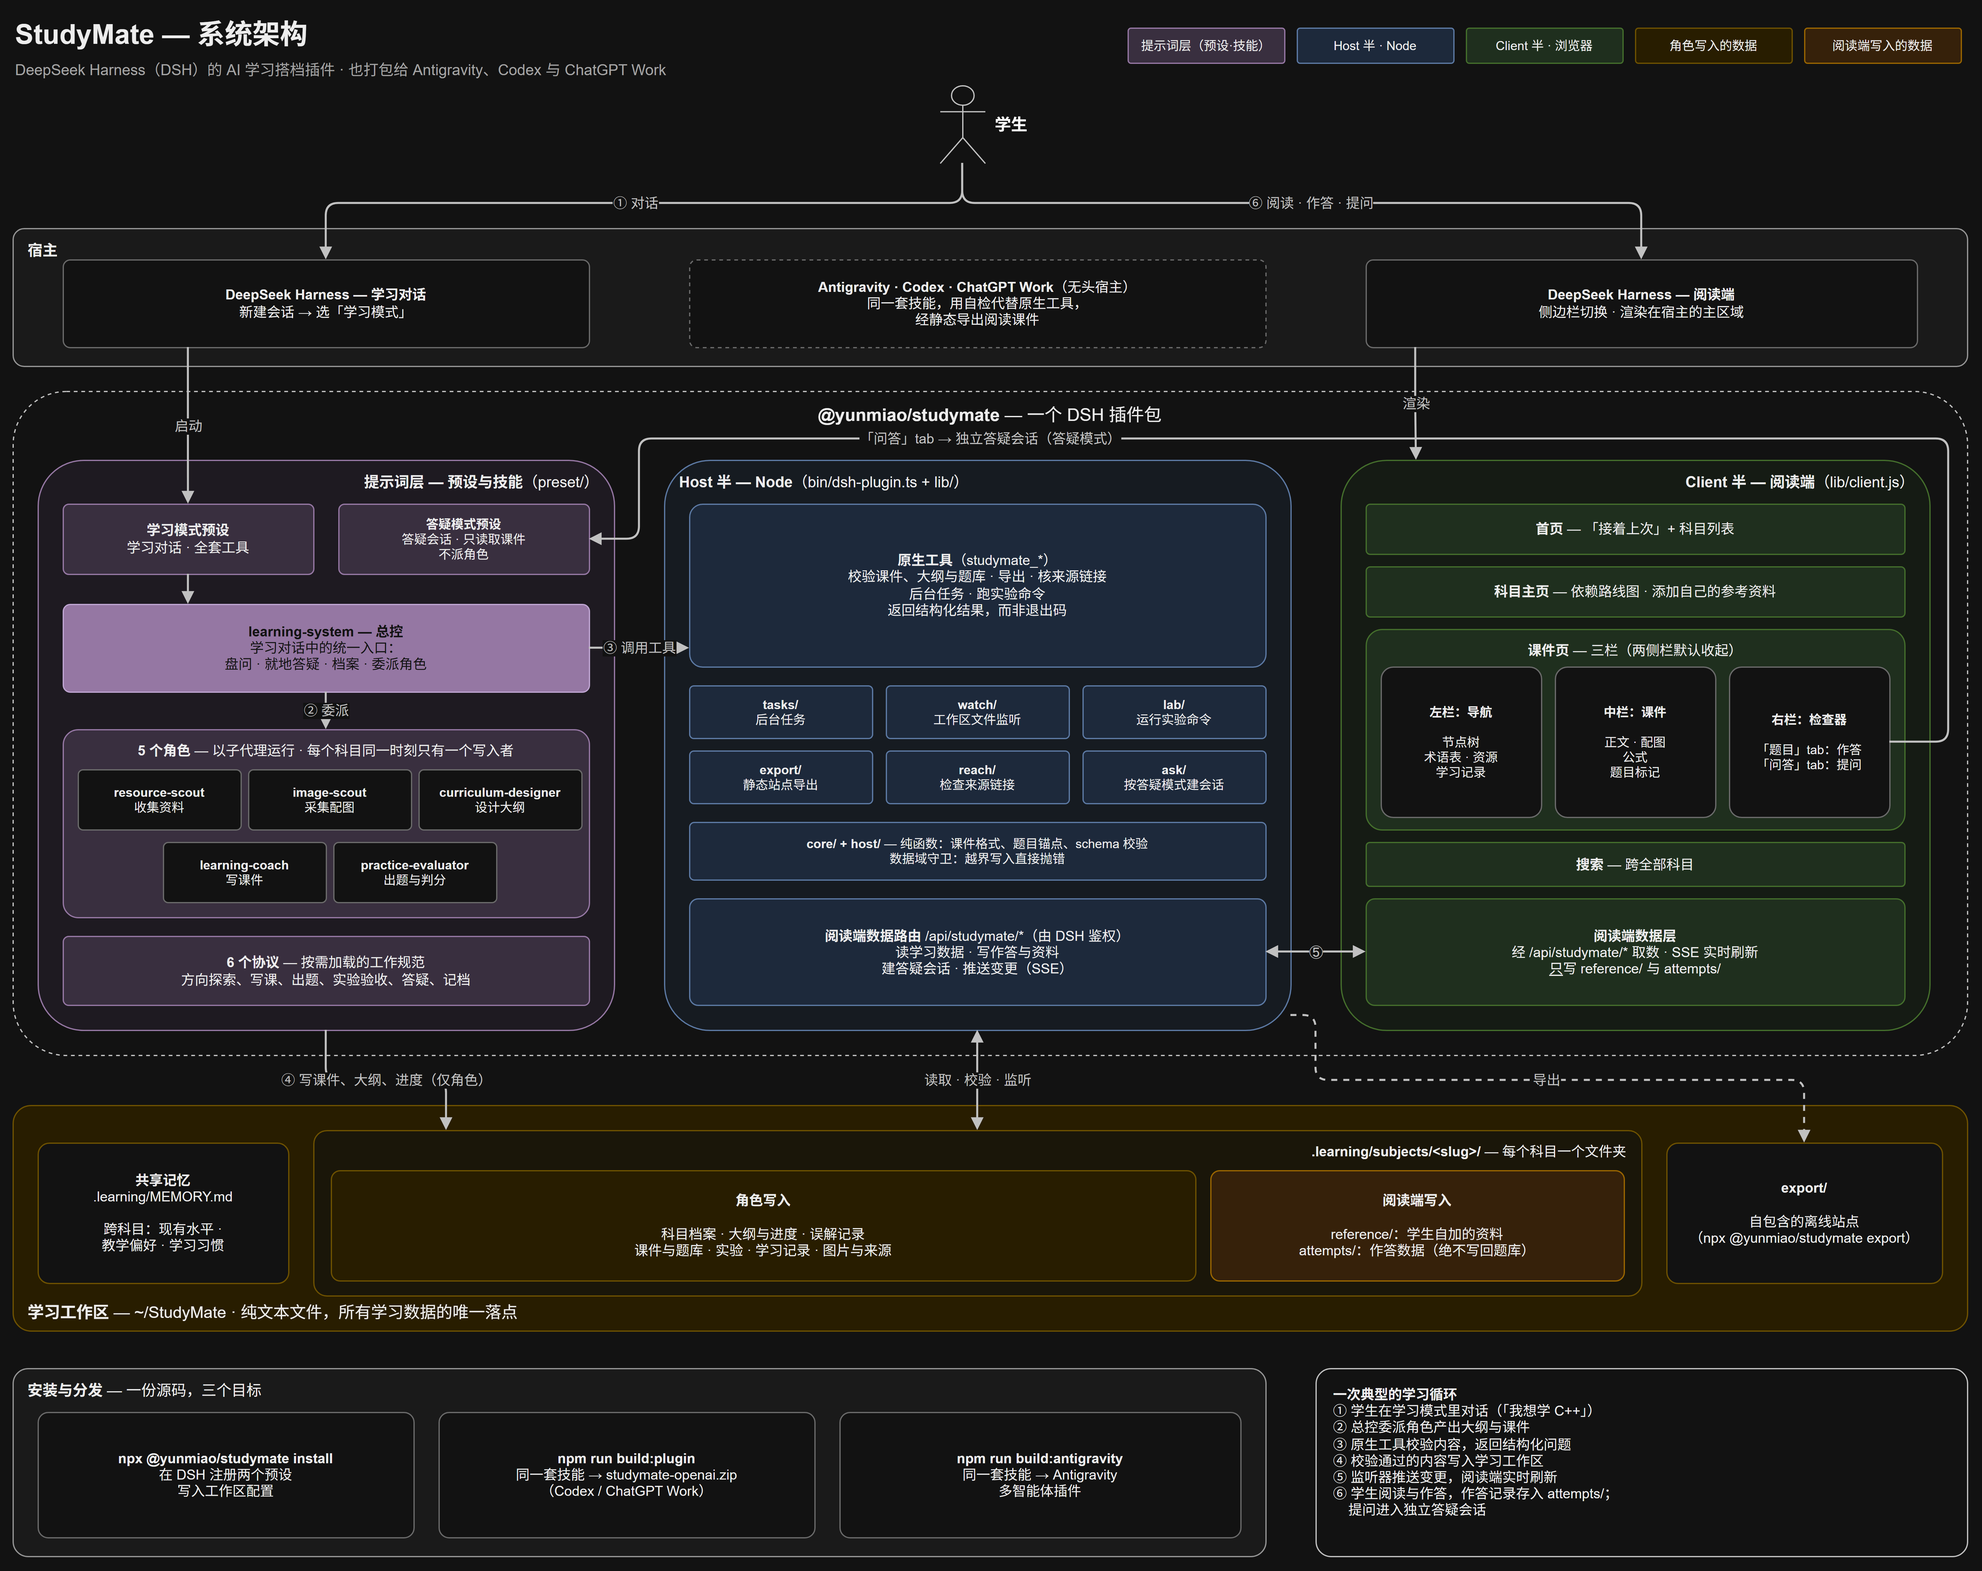
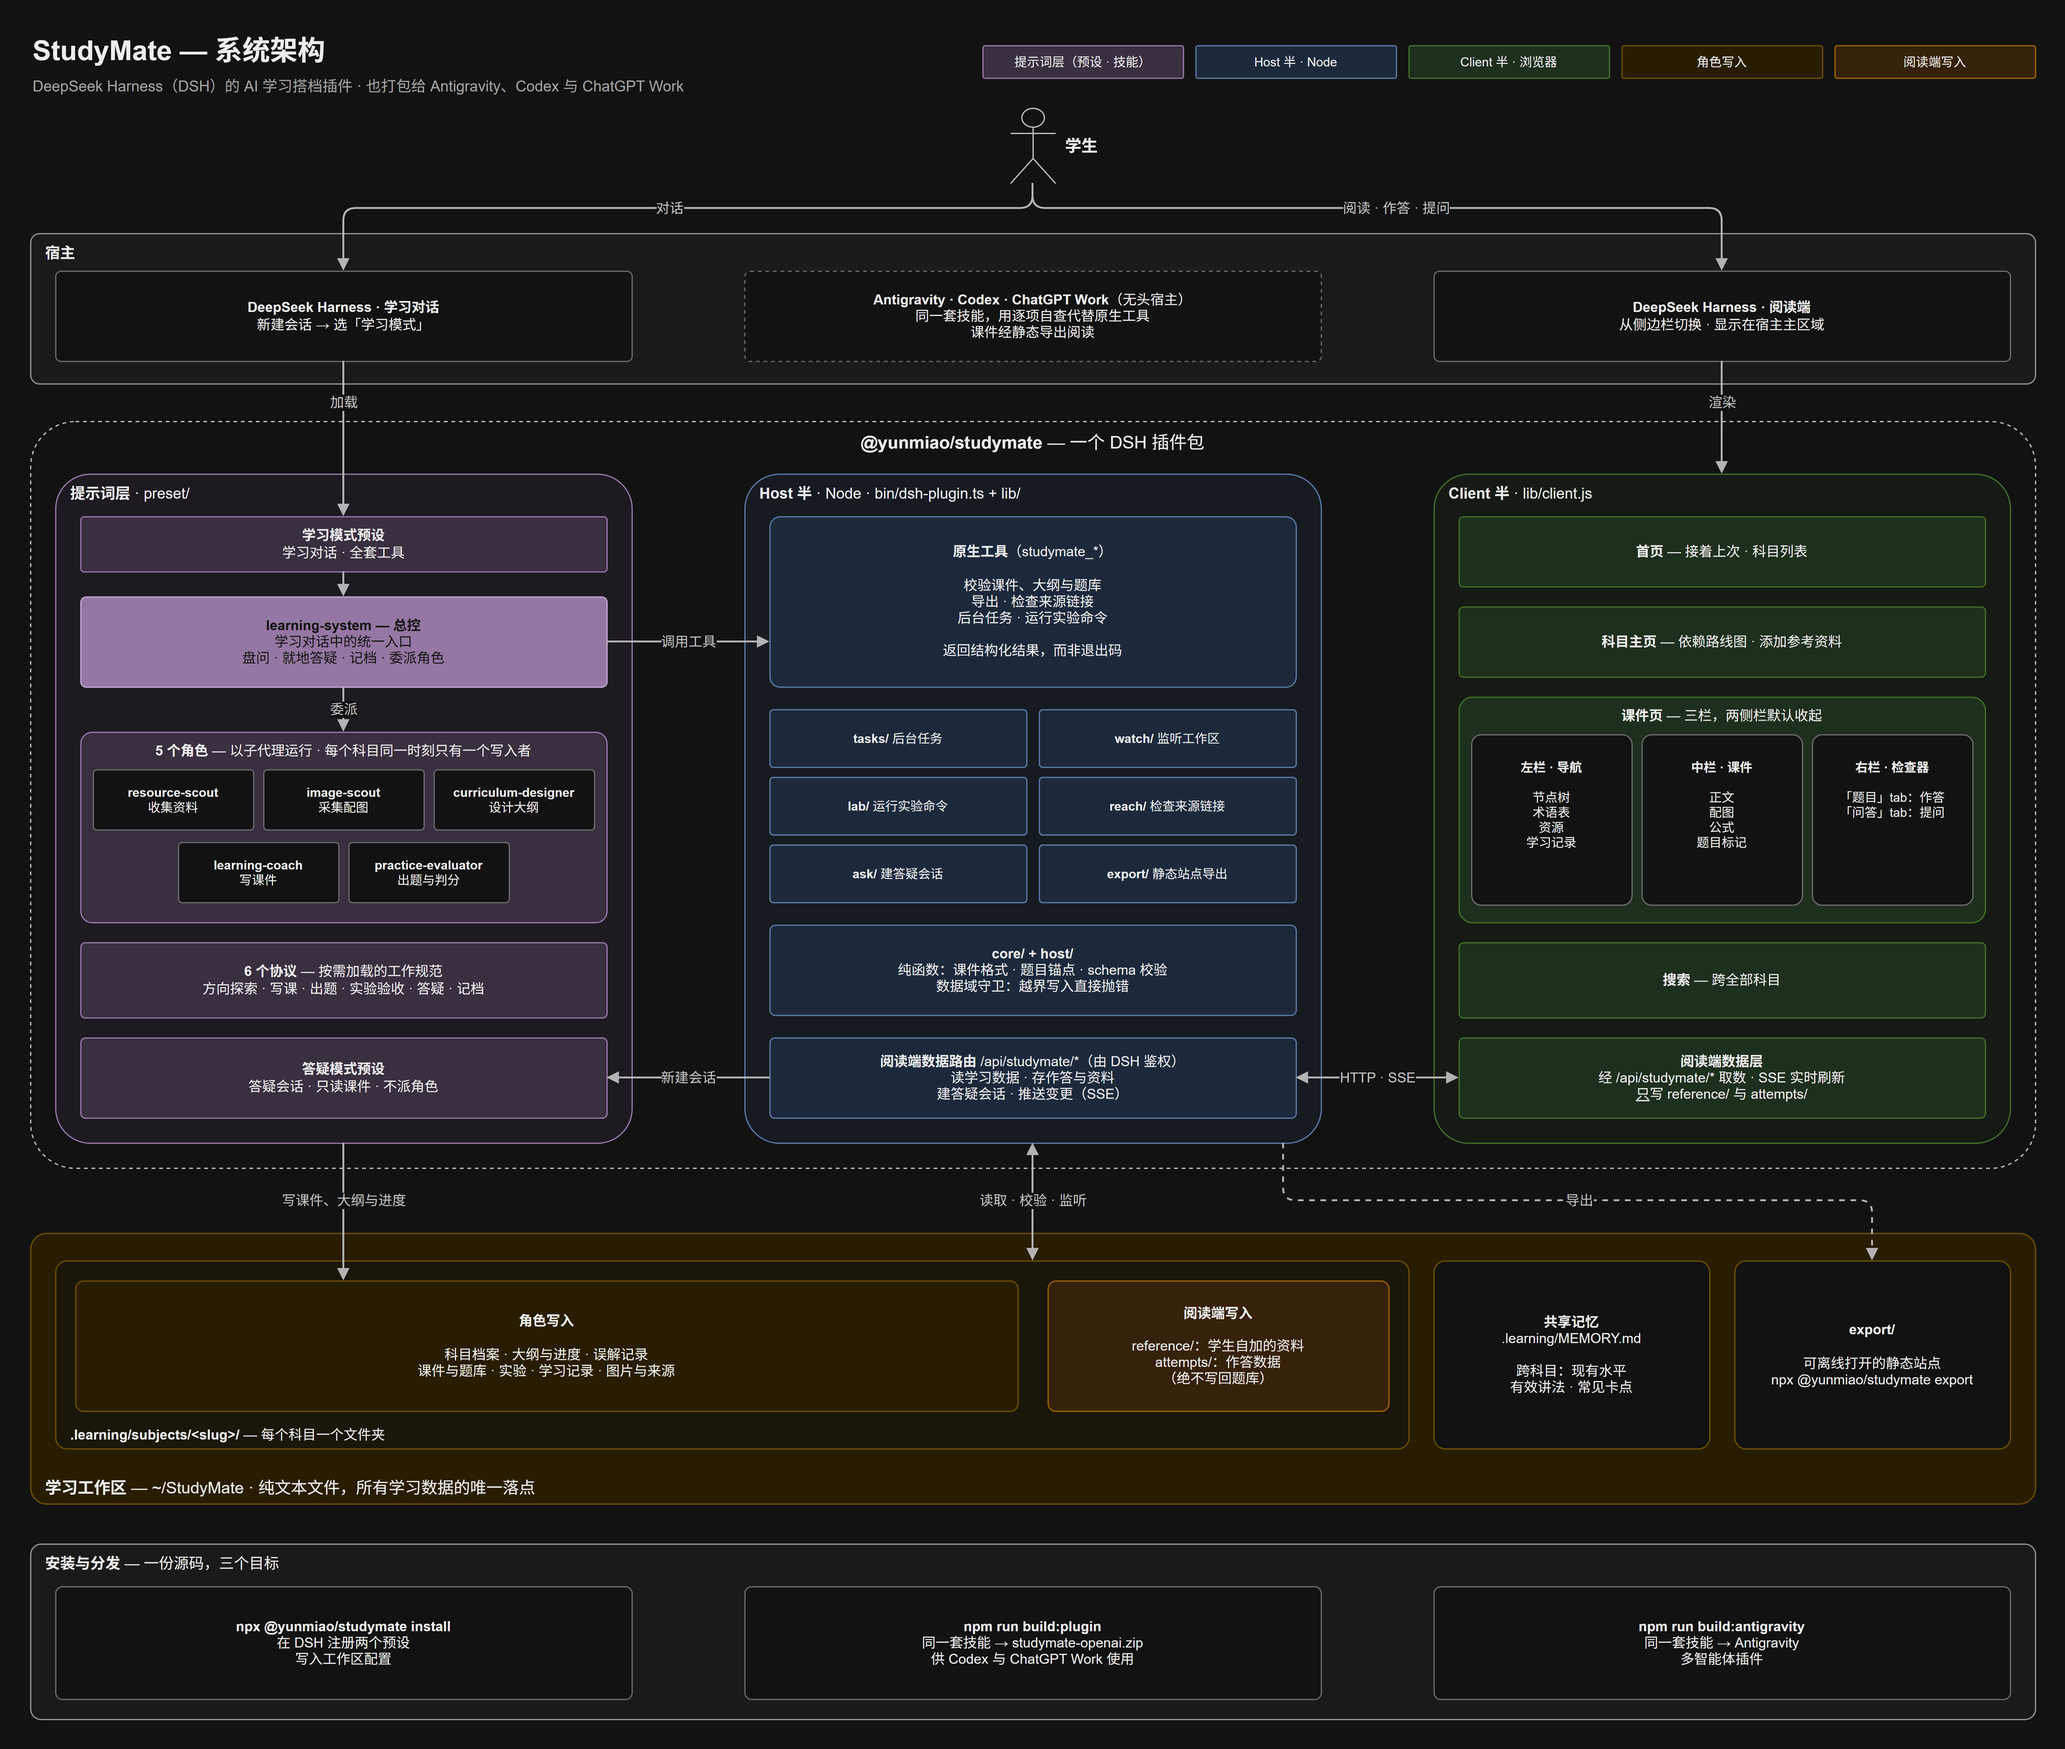
docs(README): 架构图理顺连线与标签
- 「问答」tab 那条线原来绕整张图一圈，压过「渲染」线和插件包标题。改为
  沿真实路径走：答疑模式预设挪到提示词层底行，与阅读端数据路由、数据层
  同一行；路由 → 答疑模式预设一条短横线「新建会话」，路由 ↔ 数据层
  「HTTP · SSE」
- 宿主行三个方框与下面三栏对齐，往下的线都是直的；全图没有交叉，标签都
  放在两层框之间的缝里，不压框线。「读取 · 校验 · 监听」落在两块写入区
  的缝上，指整个科目目录
- 去掉「一次典型的学习循环」示例框（含「我想学 C++」）和线上的 ①–⑥
  编号：编号离开那张框就没有含义。安装与分发一行改为通栏
- 英文版用词对齐 README.en 与词表：Orchestrator → coordinator、
  syllabus → outline、quizzes → question banks / exercises、
  Learning Workspace → Study workspace、Agent plane → Prompt layer、
  Host applications → Hosts；改掉直译的句子。README.en 图片的 alt 同步
  改为 prompt layer
- 中文版小修：核来源链接 → 检查来源链接、跑实验命令 → 运行实验命令；
  共享记忆按词表写「现有水平 · 有效讲法 · 常见卡点」
- 浅色 PNG 也改走 SVG：draw.io CLI 的 -s 4 配 -b 会把右边和下边裁掉一截
  现在两种主题都先用 --svg-theme light / dark 导出 SVG，再用浏览器无头
  模式按 4× 截图，四张图尺寸相同、边距一致

diff --git a/README.en.md b/README.en.md
@@ -126,7 +126,7 @@ On the DSH side, it is **one plugin package** (`@yunmiao/studymate`): the Host h
 <a href="docs/images/architecture.en.dark.png">
   <picture>
     <source media="(prefers-color-scheme: light)" srcset="docs/images/architecture.en.light.png" />
-    <img src="docs/images/architecture.en.dark.png" width="860" alt="StudyMate system architecture: hosts, the plugin package (agent plane / Host half / Client half), the study workspace, and install & distribution" />
+    <img src="docs/images/architecture.en.dark.png" width="860" alt="StudyMate system architecture: hosts, the plugin package (prompt layer / Host half / Client half), the study workspace, and install & distribution" />
   </picture>
 </a>
 
